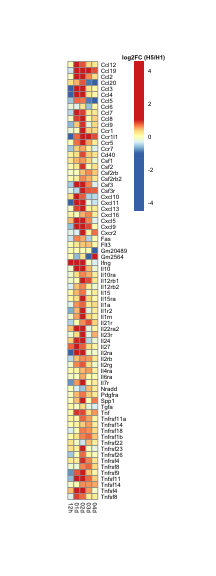
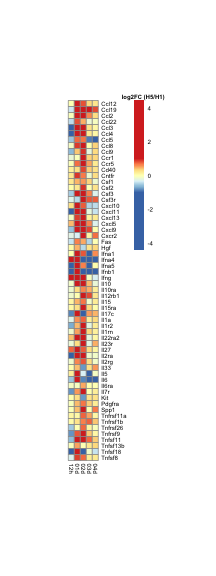
restricting genes in heatmap 1D to only DEGs

Changed region(s): [[0.3056, 0.0938, 0.7778, 0.9062], [0.6944, 0.3438, 0.7222, 0.375], [0.6944, 0.2812, 0.7222, 0.3125]]

diff --git a/code/20190408_Fluomics.fig1d.md b/code/20190408_Fluomics.fig1d.md
@@ -1,7 +1,7 @@
 ---
 title: R code to generate Figure 1D
 author: Slim Fourati
-date: "23 April, 2019"
+date: "15 November, 2019"
 output: github_documents
 ---
 
@@ -69,17 +69,26 @@ mouse2human <- getLDS(attributes  = c("mgi_symbol", "ensembl_gene_id"),
 # extract leading edge genes
 leGenes <- filter(gseaOutput,
 		  NAME %in% "CYTOKINE_REGISTRY" &
-		    coefName %in% "H5N1.02d-H1N1.02d") %>%
+		    coefName %in% c("H5N1.01d-H1N1.01d", "H5N1.02d-H1N1.02d")) %>%
   .$LEADING_EDGE %>%
   strsplit(split = ",") %>%
   unlist() %>%
   data.frame(symbol = .) %>%
+  distinct() %>%
   merge(y = mouse2human, by.x = "symbol", by.y = "HGNC.symbol") %>%
   arrange(MGI.symbol) %>%
   filter(!duplicated(Gene.stable.ID))
-
+# filter on diff. exprs. genes
+top <- glmLRT(fit,
+	      contrast = fit$contrast[, c("H5N1.01d-H1N1.01d", "H5N1.02d-H1N1.02d")]) %>%
+    topTags(n = Inf) %>%
+  as.data.frame() %>%
+  rownames_to_column() %>%
+  filter(FDR <= 0.05)
+leGenes <- filter(leGenes, Gene.stable.ID %in% top$rowname)
+# extract fold-change across timepoints
 fcDF <- lapply(colnames(fit$contrast), FUN = function(contrastName) {
-  top  <- glmLRT(fit, contrast = fit$contrast[, contrastName]) %>%
+  top <- glmLRT(fit, contrast = fit$contrast[, contrastName]) %>%
     topTags(n = Inf) %>%
     as.data.frame() %>%
     rownames_to_column() %>%
@@ -96,7 +105,7 @@ fcDF <- lapply(colnames(fit$contrast), FUN = function(contrastName) {
 	 coefName = relevel(coefName, ref = "12h")) %>% 
   spread(coefName, logFC) %>%
   column_to_rownames(var = "rowname")
-
+# plot heatmap
 breakLS <- c(-1 * max(abs(fcDF)),
              seq(from = -1, to = 1, length.out = 99),
              max(abs(fcDF)))
@@ -132,12 +141,12 @@ sessionInfo()
 ```
 
 ```
-## R version 3.5.3 (2019-03-11)
-## Platform: x86_64-apple-darwin18.2.0 (64-bit)
-## Running under: macOS Mojave 10.14.4
+## R version 3.6.1 (2019-07-05)
+## Platform: x86_64-apple-darwin18.6.0 (64-bit)
+## Running under: macOS Catalina 10.15.1
 ## 
 ## Matrix products: default
-## BLAS/LAPACK: /usr/local/Cellar/openblas/0.3.5/lib/libopenblasp-r0.3.5.dylib
+## BLAS/LAPACK: /usr/local/Cellar/openblas/0.3.7/lib/libopenblasp-r0.3.7.dylib
 ## 
 ## locale:
 ## [1] en_US.UTF-8/en_US.UTF-8/en_US.UTF-8/C/en_US.UTF-8/en_US.UTF-8
@@ -147,31 +156,32 @@ sessionInfo()
 ## [8] base     
 ## 
 ## other attached packages:
-##  [1] forcats_0.4.0   stringr_1.4.0   dplyr_0.8.0.1   purrr_0.3.2    
-##  [5] readr_1.3.1     tidyr_0.8.3     tibble_2.1.1    ggplot2_3.1.0  
-##  [9] tidyverse_1.2.1 edgeR_3.24.3    limma_3.38.3    gtable_0.2.0   
-## [13] pheatmap_1.0.12 biomaRt_2.38.0  knitr_1.22     
+##  [1] forcats_0.4.0   stringr_1.4.0   dplyr_0.8.3     purrr_0.3.3    
+##  [5] readr_1.3.1     tidyr_1.0.0     tibble_2.1.3    ggplot2_3.2.1  
+##  [9] tidyverse_1.2.1 edgeR_3.28.0    limma_3.42.0    gtable_0.3.0   
+## [13] pheatmap_1.0.12 biomaRt_2.42.0  knitr_1.26     
 ## 
 ## loaded via a namespace (and not attached):
-##  [1] Rcpp_1.0.1           locfit_1.5-9.1       lubridate_1.7.4     
-##  [4] lattice_0.20-38      prettyunits_1.0.2    assertthat_0.2.0    
-##  [7] digest_0.6.18        R6_2.4.0             cellranger_1.1.0    
-## [10] plyr_1.8.4           backports_1.1.3      stats4_3.5.3        
-## [13] RSQLite_2.1.1        evaluate_0.13        highr_0.7           
-## [16] httr_1.4.0           pillar_1.3.1         rlang_0.3.1         
-## [19] progress_1.2.0       curl_3.3             lazyeval_0.2.2      
-## [22] readxl_1.3.1         rstudioapi_0.9.0     blob_1.1.1          
-## [25] S4Vectors_0.20.1     RCurl_1.95-4.12      bit_1.1-14          
-## [28] munsell_0.5.0        broom_0.5.1          compiler_3.5.3      
-## [31] modelr_0.1.4         xfun_0.5             pkgconfig_2.0.2     
-## [34] BiocGenerics_0.28.0  tidyselect_0.2.5     IRanges_2.16.0      
-## [37] XML_3.98-1.19        withr_2.1.2          crayon_1.3.4        
-## [40] bitops_1.0-6         nlme_3.1-137         jsonlite_1.6        
-## [43] DBI_1.0.0            magrittr_1.5         scales_1.0.0        
-## [46] cli_1.1.0            stringi_1.4.3        xml2_1.2.0          
-## [49] generics_0.0.2       RColorBrewer_1.1-2   tools_3.5.3         
-## [52] bit64_0.9-7          Biobase_2.42.0       glue_1.3.1          
-## [55] hms_0.4.2            parallel_3.5.3       AnnotationDbi_1.44.0
-## [58] colorspace_1.4-1     rvest_0.3.2          memoise_1.1.0       
-## [61] haven_2.1.0
+##  [1] Rcpp_1.0.3           locfit_1.5-9.1       lubridate_1.7.4     
+##  [4] lattice_0.20-38      prettyunits_1.0.2    assertthat_0.2.1    
+##  [7] zeallot_0.1.0        digest_0.6.22        BiocFileCache_1.10.2
+## [10] cellranger_1.1.0     R6_2.4.1             backports_1.1.5     
+## [13] stats4_3.6.1         RSQLite_2.1.2        evaluate_0.14       
+## [16] highr_0.8            httr_1.4.1           pillar_1.4.2        
+## [19] rlang_0.4.1          progress_1.2.2       readxl_1.3.1        
+## [22] lazyeval_0.2.2       curl_4.2             rstudioapi_0.10     
+## [25] blob_1.2.0           S4Vectors_0.24.0     bit_1.1-14          
+## [28] munsell_0.5.0        broom_0.5.2          modelr_0.1.5        
+## [31] compiler_3.6.1       xfun_0.11            pkgconfig_2.0.3     
+## [34] askpass_1.1          BiocGenerics_0.32.0  openssl_1.4.1       
+## [37] tidyselect_0.2.5     IRanges_2.20.0       XML_3.98-1.20       
+## [40] withr_2.1.2          crayon_1.3.4         dbplyr_1.4.2        
+## [43] rappdirs_0.3.1       nlme_3.1-142         jsonlite_1.6        
+## [46] lifecycle_0.1.0      DBI_1.0.0            magrittr_1.5        
+## [49] scales_1.0.0         cli_1.1.0            stringi_1.4.3       
+## [52] xml2_1.2.2           vctrs_0.2.0          generics_0.0.2      
+## [55] RColorBrewer_1.1-2   tools_3.6.1          bit64_0.9-7         
+## [58] Biobase_2.46.0       glue_1.3.1           hms_0.5.2           
+## [61] parallel_3.6.1       AnnotationDbi_1.48.0 colorspace_1.4-1    
+## [64] rvest_0.3.5          memoise_1.1.0        haven_2.2.0
 ```
